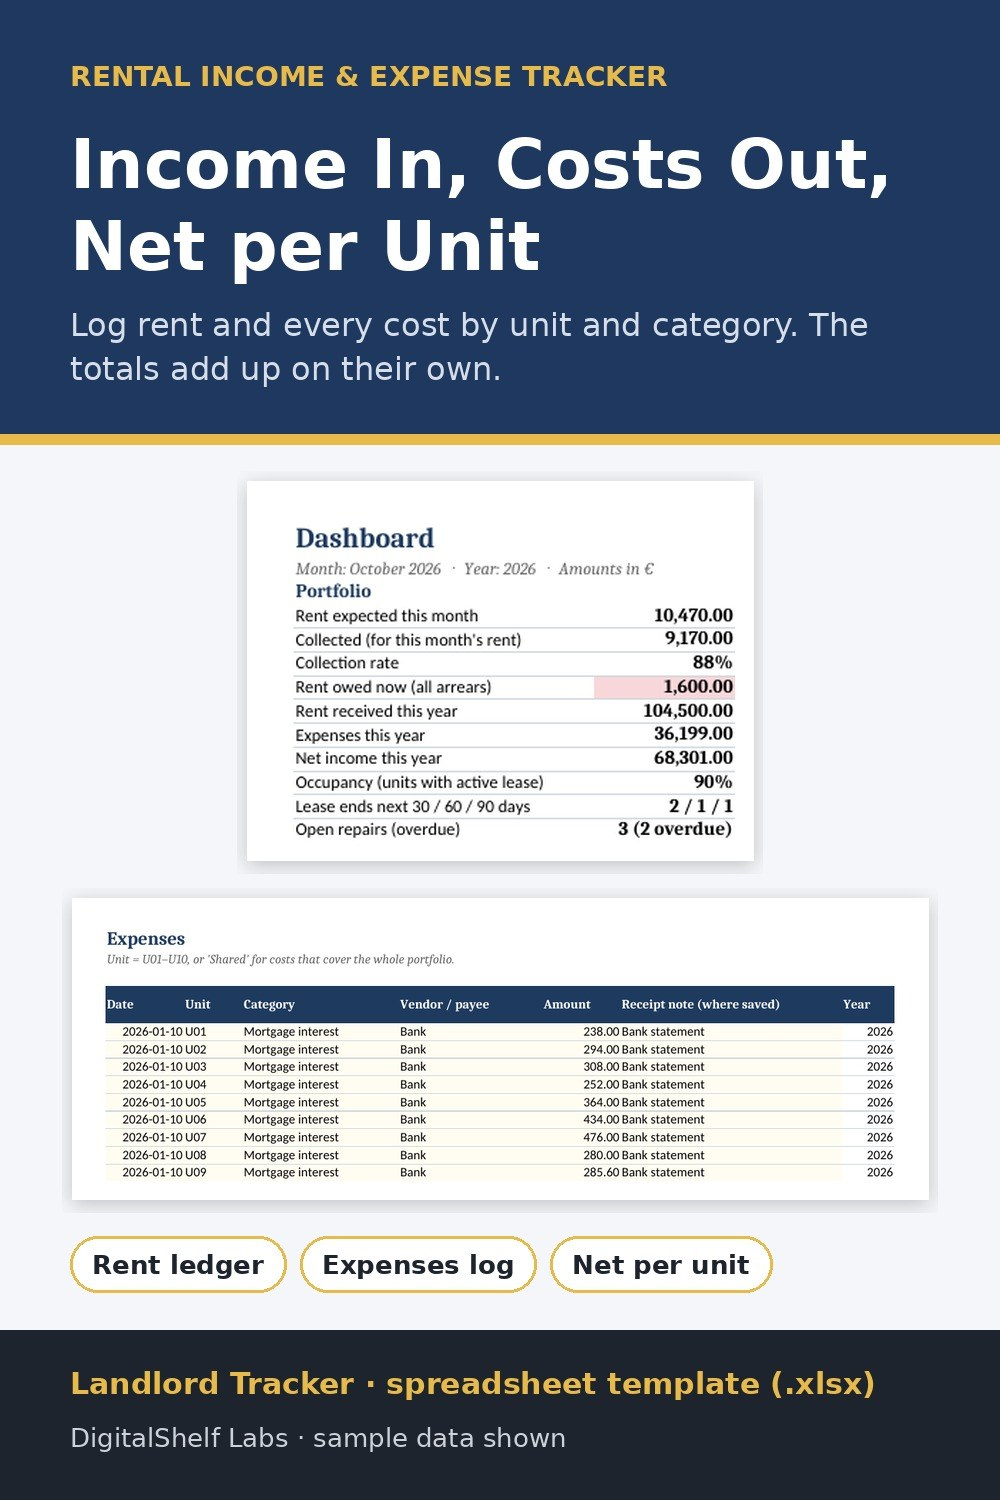
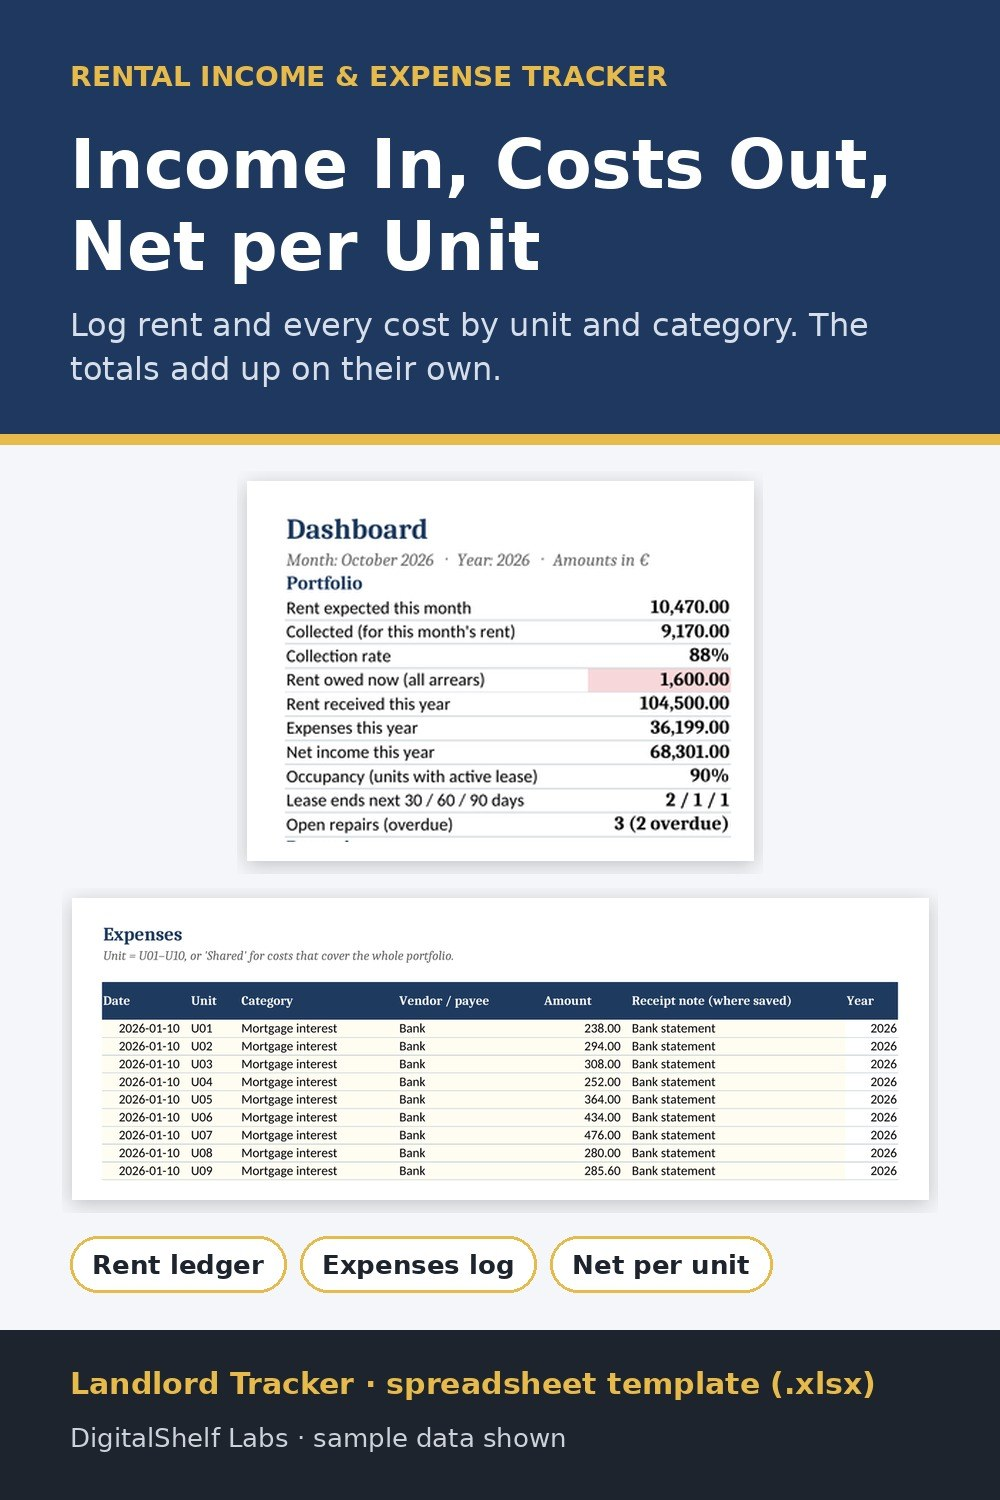
Fix cramped landlord previews, cover and pins (2026-10-17)

Changed region(s): [[0.093, 0.6133, 0.899, 0.7973], [0.279, 0.3373, 0.744, 0.5827], [0.558, 0.368, 0.651, 0.3987]]

diff --git a/products/landlord-tracker/index.html b/products/landlord-tracker/index.html
@@ -16,7 +16,7 @@
 <p class="crumbs"><a href="/">Home</a> › <a href="/products/">Products</a></p>
 <h1>Landlord Tracker: Rent, Deposits, Lease Ends &amp; Repairs in One Spreadsheet (1–10 Units)</h1>
 <div class="buybox"><span class="price">$24.99+</span><a class="btn" href="https://digitalshelflabs.gumroad.com/l/tooflj">Buy on Gumroad</a><span class="note">Pay what you want from $24.99 (suggested $29.99). 14-day money-back guarantee. Checkout, payment and delivery are handled by Gumroad. Prices in USD; Gumroad shows the final price, including any tax, at checkout.</span></div>
-<div class="gallery"><img src="/assets/img/products/landlord-tracker-1.jpg" alt="Landlord Tracker preview 1" width="1005" height="565" loading="eager"><img src="/assets/img/products/landlord-tracker-2.jpg" alt="Landlord Tracker preview 2" width="1005" height="503" loading="lazy"><img src="/assets/img/products/landlord-tracker-units.jpg" alt="Landlord Tracker preview 3" width="1005" height="303" loading="lazy"><img src="/assets/img/products/landlord-tracker-3.jpg" alt="Landlord Tracker preview 4" width="1005" height="711" loading="lazy"><img src="/assets/img/products/landlord-tracker-4.jpg" alt="Landlord Tracker preview 5" width="1005" height="315" loading="lazy"></div>
+<div class="gallery"><img src="/assets/img/products/landlord-tracker-1.jpg" alt="Landlord Tracker preview 1" width="1005" height="565" loading="eager"><img src="/assets/img/products/landlord-tracker-2.jpg" alt="Landlord Tracker preview 2" width="1005" height="503" loading="lazy"><img src="/assets/img/products/landlord-tracker-units.jpg" alt="Landlord Tracker preview 3" width="1005" height="303" loading="lazy"><img src="/assets/img/products/landlord-tracker-3.jpg" alt="Landlord Tracker preview 4" width="1005" height="723" loading="lazy"><img src="/assets/img/products/landlord-tracker-4.jpg" alt="Landlord Tracker preview 5" width="1005" height="308" loading="lazy"></div>
 <div class="desc"><p>For small landlords with 1–10 long-term rentals who are tired of chasing rent, deposits and repairs across bank apps, emails and notes.</p><p>One spreadsheet for your whole rental portfolio. Log rent as it arrives and the tracker matches it to what was due: partial payments, late payments and a running balance per tenant, colour-flagged green, amber and red. The dashboard shows rent collected this month against expected, who owes what, net income per unit and for the year, leases ending in the next 30/60/90 days, and open repairs.</p><ul>
 <li>
 <strong>Rent matching:</strong> expected vs paid, partial and late payments, days late, running balance per tenant</li>
